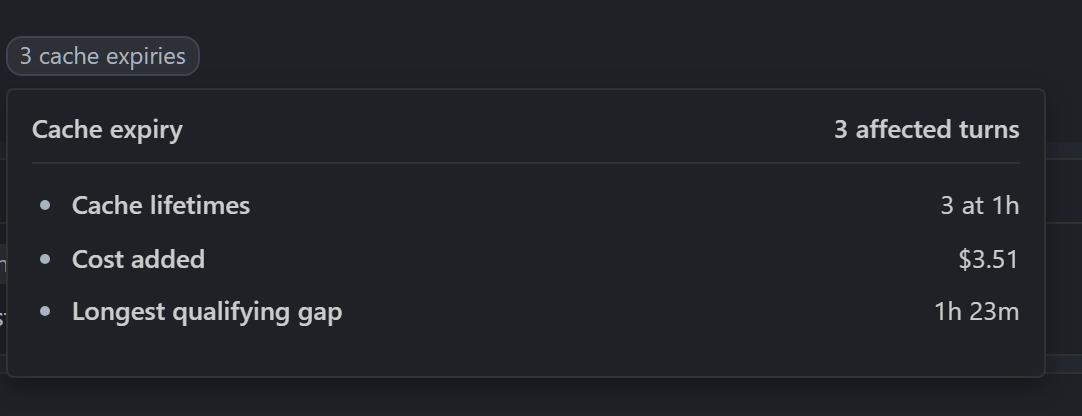
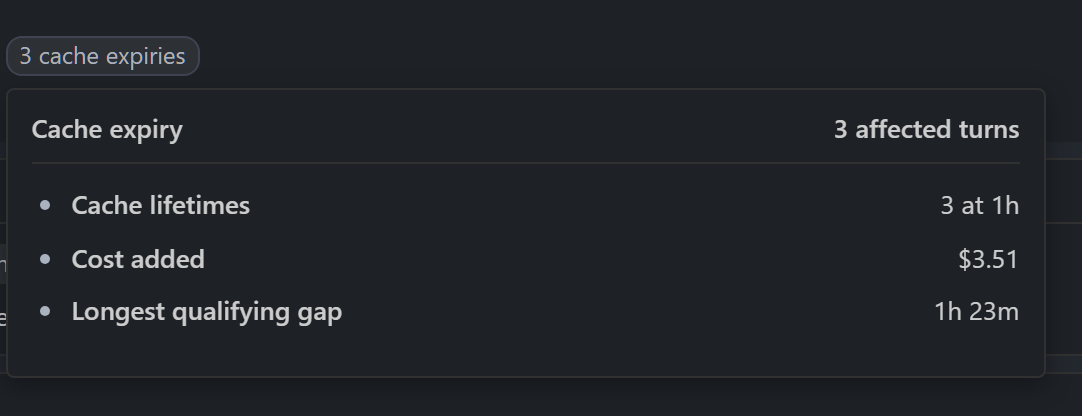
fix(demo): use 1M Opus context capacity in sample sessions
Keep recorded token usage and request costs unchanged. Codex samples retain
their 258,400-token capacity and Sonnet samples retain their existing windows.

Regenerate affected README captures through the shared capture workflow.
Check Opus and Codex capacity in the existing context fixture test.

diff --git a/extension/scripts/readme-fixture.ts b/extension/scripts/readme-fixture.ts
@@ -326,7 +326,7 @@ const changesTurn: Turn = turn({
     thinking: 0,
   },
   contextTokens: 52_000,
-  contextWindow: 200_000,
+  contextWindow: 1_000_000,
   toolUses: 22,
   toolCounts: { edits: 3, reads: 8, searches: 3, commands: 6, agents: 1, coordination: 1, web: 0, other: 0 },
 });
@@ -367,7 +367,7 @@ const beforeExpiry: Turn = turn({
     thinking: 0,
   },
   contextTokens: 128_000,
-  contextWindow: 200_000,
+  contextWindow: 1_000_000,
 });
 
 const expiryUsage = {
@@ -416,7 +416,7 @@ const expiryRequest: ProjectUsageBucket = {
   agent: 'claude',
   provider: null,
   model: changesTurn.model,
-  contextWindow: 200_000,
+  contextWindow: 1_000_000,
   contextBand: 'short',
   billingClass: 'metered',
   inferenceClass: null,
@@ -767,7 +767,7 @@ const demoReadStateTurn: Turn = {
   ...demoCodexReadStateTurn,
   agent: 'claude',
   model: 'claude-opus-5-5',
-  contextWindow: 200_000,
+  contextWindow: 1_000_000,
   agents: demoCodexReadStateTurn.agents.map((agent) => {
     const model = agent.id === 'background-review' ? 'claude-haiku-4-5-20251001' : 'claude-sonnet-5-5';
     return {
@@ -949,7 +949,7 @@ export const DEMO_TURNS: Record<string, Turn[]> = {
       model: 'claude-opus-5-5',
       effort: 'high',
       contextTokens: expiryTurn.contextTokens,
-      contextWindow: 200_000,
+      contextWindow: 1_000_000,
       contextRequest: {
         at: CAPTURE_TIME - 4 * 60_000,
         lifetime: '1h',
@@ -1008,7 +1008,7 @@ export const DEMO_TURNS: Record<string, Turn[]> = {
       effort: 'high',
       usage: { ...emptyUsage(), requests: 4, input: 8_000, cacheWrite5m: 20_000, cacheRead: 64_000, output: 2_500 },
       contextTokens: 36_000,
-      contextWindow: 200_000,
+      contextWindow: 1_000_000,
       toolUses: 3,
       toolCounts: { ...turn().toolCounts, reads: 2, commands: 1 },
       steps: [
@@ -1087,7 +1087,7 @@ export const DEMO_TURNS: Record<string, Turn[]> = {
       effort: 'high',
       usage: { ...emptyUsage(), requests: 2, input: 4_000, cacheWrite1h: 9_000, cacheRead: 9_000, output: 1_500 },
       contextTokens: 15_000,
-      contextWindow: 200_000,
+      contextWindow: 1_000_000,
       toolUses: 1,
       toolCounts: { ...turn().toolCounts, reads: 1 },
       steps: [
@@ -1131,7 +1131,7 @@ DEMO_TURNS['arc-read-state'] = DEMO_TURNS['arc-read-state'].map((item, index) =>
         ...item,
         agent: 'claude',
         model: 'claude-opus-5-5',
-        contextWindow: 200_000,
+        contextWindow: 1_000_000,
         startedAt: item.startedAt - (index === 2 ? 60 * 60_000 : 0),
         endedAt: item.endedAt - (index === 2 ? 60 * 60_000 : 0),
         contextRequest: {

diff --git a/extension/src/panel-shots.test.ts b/extension/src/panel-shots.test.ts
@@ -252,10 +252,10 @@ test('demo samples keep dispatched costs and reader-started usage separate from 
   assert.deepEqual(review.cards[0].files, []);
   assert.deepEqual(review.cards[0].commits, []);
   const dollars = (payload: DemoPayload) => payload.stats[payload.showing].find((chip) => chip.metric === 'cost')!.dollars!;
-  const own = estimateCost({ requests: 4, input: 8_000, cacheWrite5m: 20_000, cacheWrite1h: 0, cacheRead: 64_000, output: 2_500, thinking: 0 }, 'claude-opus-5-5', null, 200_000)!;
+  const own = estimateCost({ requests: 4, input: 8_000, cacheWrite5m: 20_000, cacheWrite1h: 0, cacheRead: 64_000, output: 2_500, thinking: 0 }, 'claude-opus-5-5', null, 1_000_000)!;
   assert.ok(Math.abs(dollars(parent) - own - dollars(review)) < 1e-9);
   assert.equal(card.chips.find((chip) => chip.metric === 'cost')?.label, formatCost(own));
-  const readerOwn = estimateCost({ requests: 2, input: 4_000, cacheWrite5m: 0, cacheWrite1h: 9_000, cacheRead: 9_000, output: 1_500, thinking: 0 }, 'claude-opus-5-5', null, 200_000)!;
+  const readerOwn = estimateCost({ requests: 2, input: 4_000, cacheWrite5m: 0, cacheWrite1h: 9_000, cacheRead: 9_000, output: 1_500, thinking: 0 }, 'claude-opus-5-5', null, 1_000_000)!;
   assert.equal(dollars(continuation), readerOwn + demoSessionCostParts('arc-demo-continuation').filter((part) => part.compactionEstimate).reduce((sum, part) => sum + estimateCost(part.usage, part.model)!, 0));
   assert.deepEqual(DEMO_LABELS['arc-demo-continuation'], DEMO_LABELS['arc-demo-dispatch']);
   assert.notEqual(DEMO_LABELS['arc-demo-continuation'], DEMO_LABELS['arc-demo-dispatch']);
@@ -621,6 +621,16 @@ test('README menu reads every manifest when clause and refuses one it cannot rea
 
 
 test('demo context replies cover both providers and preserve request identities and totals', () => {
+  for (const scene of ['cost', 'cache-expiry', 'comment', 'comment-editor'] as const) {
+    const payload = readmePayload(scene) as { usage: { composer: ComposerView } };
+    assert.equal(payload.usage.composer.context!.capacity, 1_000_000);
+  }
+  for (const turns of Object.values(DEMO_TURNS)) {
+    for (const turn of turns) {
+      if (turn.model === 'claude-opus-5-5') assert.equal(turn.contextWindow, 1_000_000);
+      if (turn.agent === 'codex') assert.equal(turn.contextWindow, 258_400);
+    }
+  }
   for (const session of DEMO_SESSION_IDS) {
     const request = { type: 'contextDetail' as const, session, request: 7, generation: 3 };
     assert.deepEqual(parsePanelToHost(request), request);
